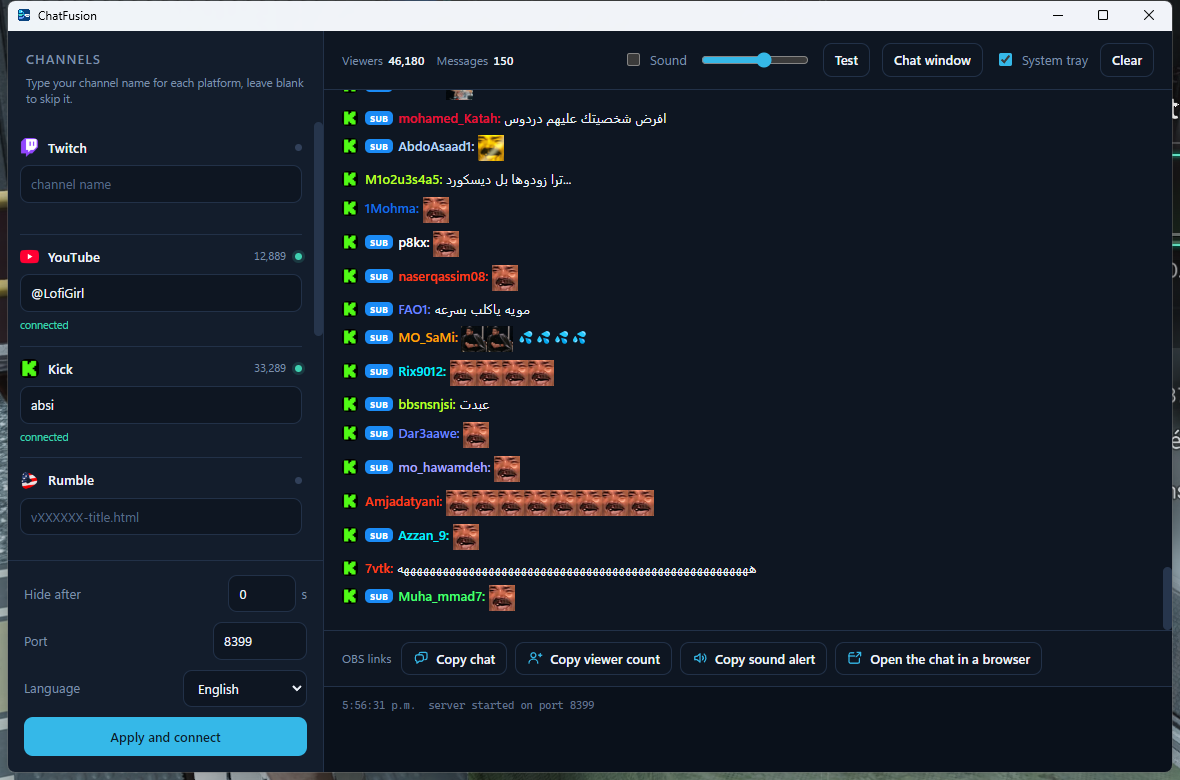
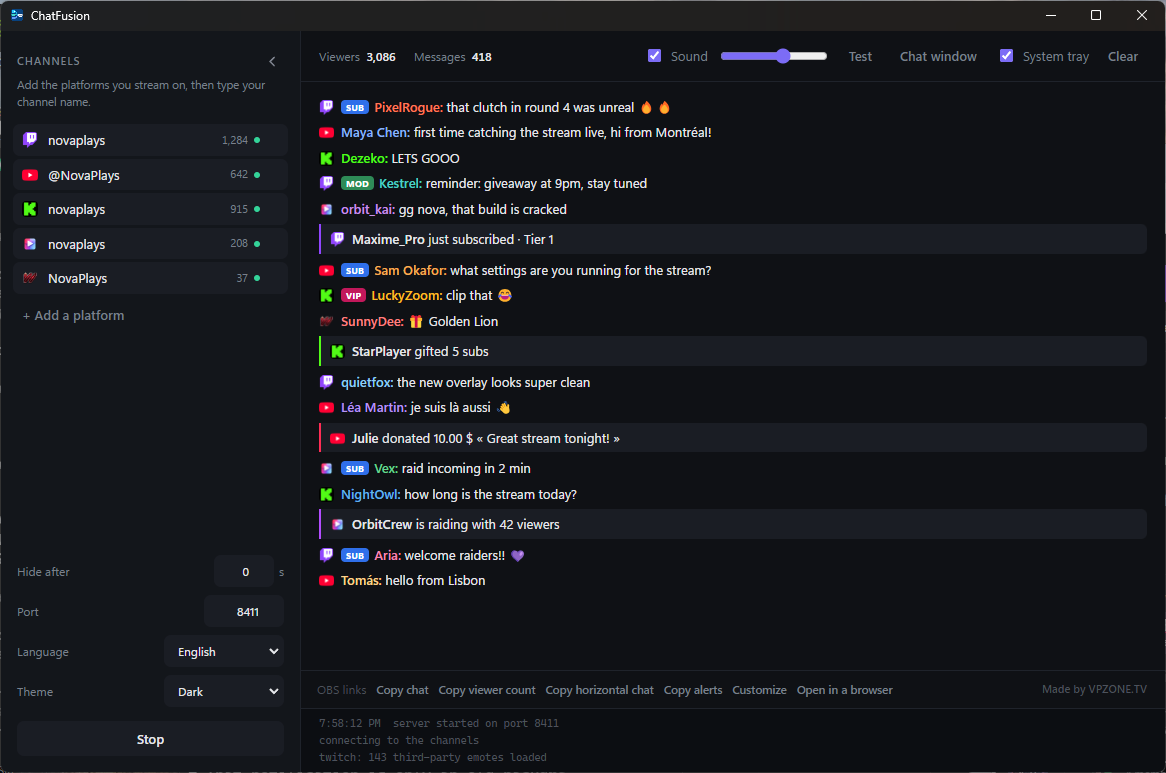
Add a screenshot tour of every feature
The page described ChatFusion in text only. It now opens with a tour: the merged
chat, the platform list with its search, Start and Stop with the folded panel,
alert cards in OBS and the five card styles, the Customize window, the light
theme, and OBS setup in three steps. The window screenshot is replaced with the
current interface.

The screenshots come from the real app filled with made-up channels and
messages, so no real viewer appears; the alert card images are drawn with the
app's own card code over a generated game background.

Claude-Session: https://claude.ai/code/session_01FRCfCsqnwXdUMbqniGaWGX

diff --git a/README.md b/README.md
@@ -13,10 +13,6 @@
 
 ---
 
-<p align="center">
-  <img src="misc/screenshots/window.png" alt="The ChatFusion window" width="900">
-</p>
-
 ChatFusion merges the live chat of eleven streaming platforms into a single stream
 of messages. You add the platforms you stream on, type your channel names, and you
 get one chat in the app window, chat overlays for OBS, a viewer counter, and alert
@@ -27,6 +23,97 @@ uses the public read access each platform already offers to its own web page.
 
 This repository hosts the Windows installers and the update metadata. The source
 code is maintained privately.
+
+## A quick tour
+
+### One chat from every platform
+
+<p align="center">
+  <img src="misc/screenshots/window.png" alt="ChatFusion merging chat from Twitch, YouTube, Kick, VPZONE and WorldsWave" width="900">
+</p>
+
+Every message lands in one list, in the order it was written, with the platform's
+logo in front, the author's colour, and their badges (SUB, MOD, VIP). Emotes and
+emoji show as images. Alerts appear right in the chat as a highlighted line, so a
+new subscriber or a raid never scrolls past unnoticed. The top bar adds up the
+viewers of every platform, and each channel shows its own count and a green lamp
+while it is connected.
+
+### Only the platforms you use
+
+<p align="center">
+  <img src="misc/screenshots/add-platform.png" alt="The Add a platform list, filtered by a search" width="900">
+</p>
+
+The channel list stays short: it only shows the platforms you stream on. **Add a
+platform** opens a list with a search field; pick one, type your channel name, and
+it is added. Hover a row and click the cross to remove it.
+
+### Start, stream, stop
+
+<p align="center">
+  <img src="misc/screenshots/window-folded.png" alt="The channel panel folded away, leaving the chat the whole window" width="900">
+</p>
+
+ChatFusion opens stopped, so nothing connects until you are ready. Press **Start**:
+every platform connects and the channel panel folds away, leaving a slim rail of
+lamps and the chat the whole window. Press **Stop** and every platform drops at
+once, while the messages already on screen stay there to read.
+
+### Alert cards in OBS
+
+<p align="center">
+  <img src="misc/screenshots/obs-scene.jpg" alt="An alert card over a game in OBS" width="900">
+</p>
+
+**Copy alerts** gives you one transparent page for OBS. Follows, subscriptions,
+gifted subs, donations and raids from every platform arrive as cards, one after the
+other, each with the platform's logo, the name, the amount and any message. A thin
+bar empties while the card is on screen, so viewers know how long it stays. Place
+and resize the source in OBS like any other.
+
+<p align="center">
+  <img src="misc/screenshots/alert-styles.jpg" alt="The five alert card styles: Subtle, Glass, Neon, Pill and Big" width="900">
+</p>
+
+Five card styles, from a quiet dark card to a big centred one for the moments that
+deserve it.
+
+### Customize once, for every platform
+
+<p align="center">
+  <img src="misc/screenshots/customize.png" alt="The Alerts window: card style, live preview, sound and which alerts to show" width="900">
+</p>
+
+**Customize** opens one small window, and whatever you pick applies to every
+platform, so five platforms take no longer to set up than one:
+
+- **Card style**: A to E, with a live preview that plays through a sub, a gift, a
+  donation and a raid.
+- **Sound**: Chime, Pop or Fanfare, or **My sound** to use your own MP3, WAV or OGG
+  file. Click a sound to hear it.
+- **Alerts to show**: a switch each for follows, subscriptions, donations and gifts,
+  and raids.
+- **Test an alert**: a sample card appears in OBS straight away, so you can check the
+  style and the sound on your actual scene.
+
+### Dark or light
+
+<p align="center">
+  <img src="misc/screenshots/window-light.png" alt="ChatFusion in the light theme" width="900">
+</p>
+
+Dark by default, light in one click, and the Windows title bar follows.
+
+### Set up OBS in three steps
+
+1. In ChatFusion, add your platforms and press **Start**.
+2. Click **Copy chat**, **Copy alerts** or **Copy viewer count** at the bottom of the
+   window.
+3. In OBS, add a **Browser** source, paste the address as its URL, and place it on
+   your scene. A size of 800 × 600 suits the chat and the alerts.
+
+*The screenshots use made-up channels and messages.*
 
 ## Download and install
 
